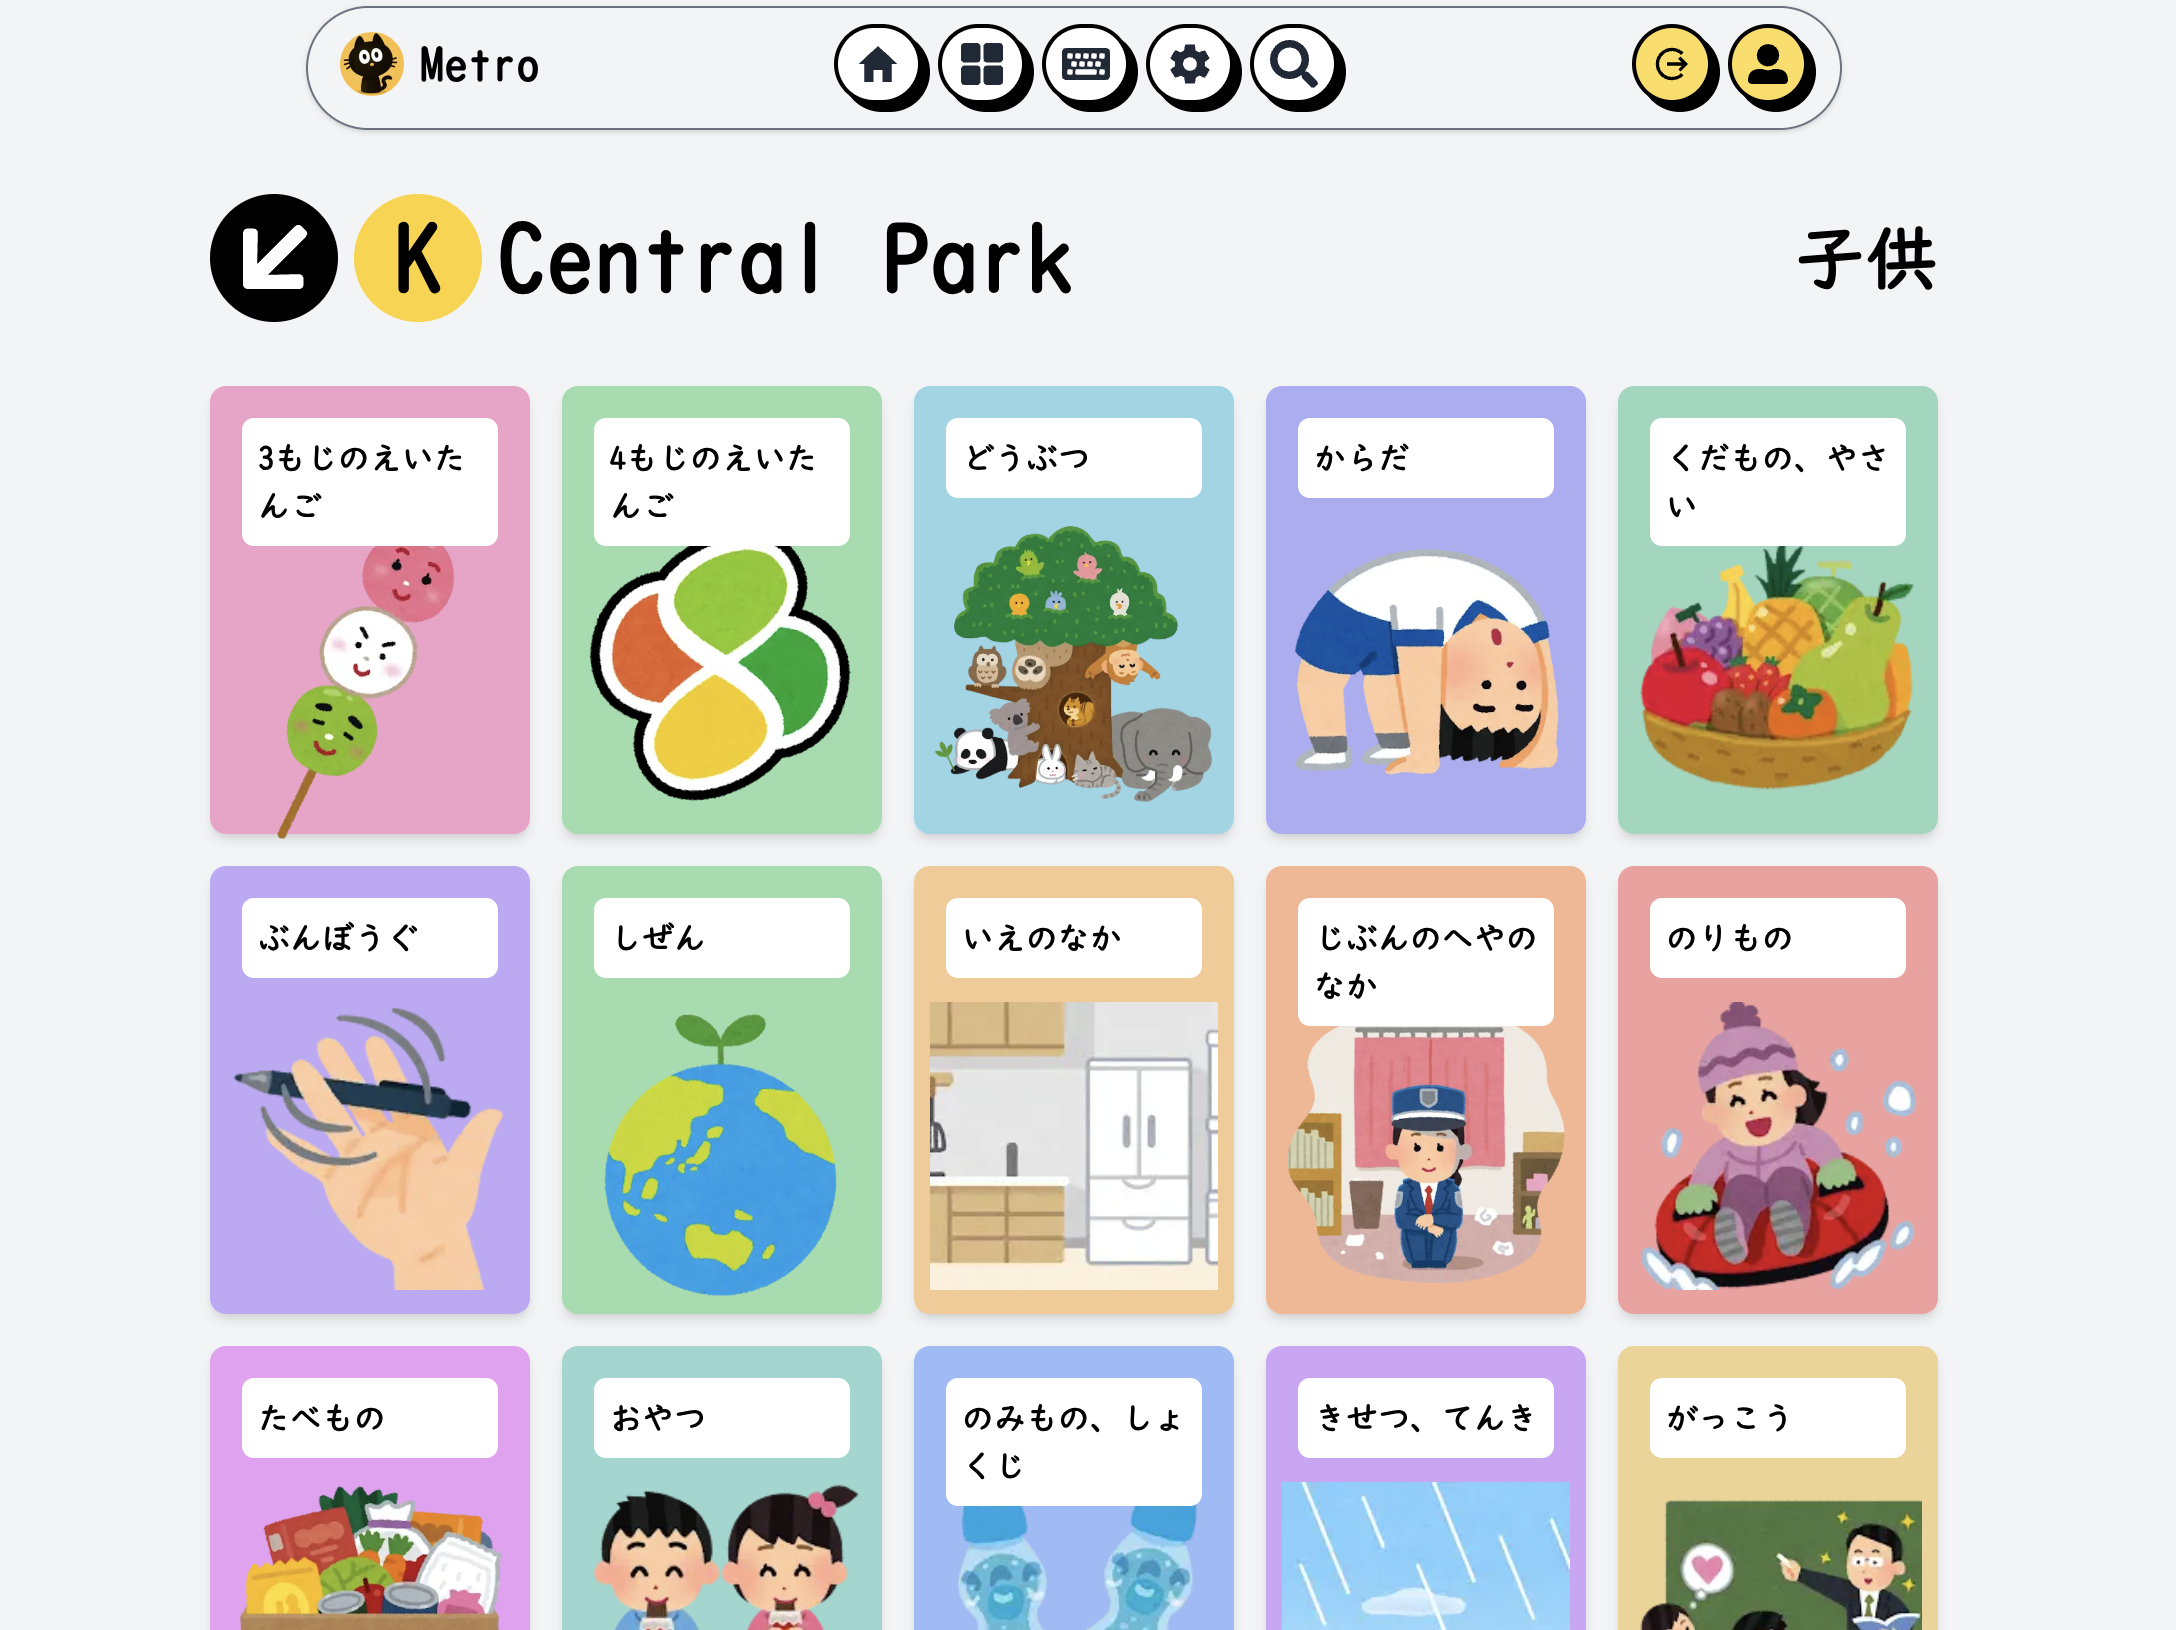
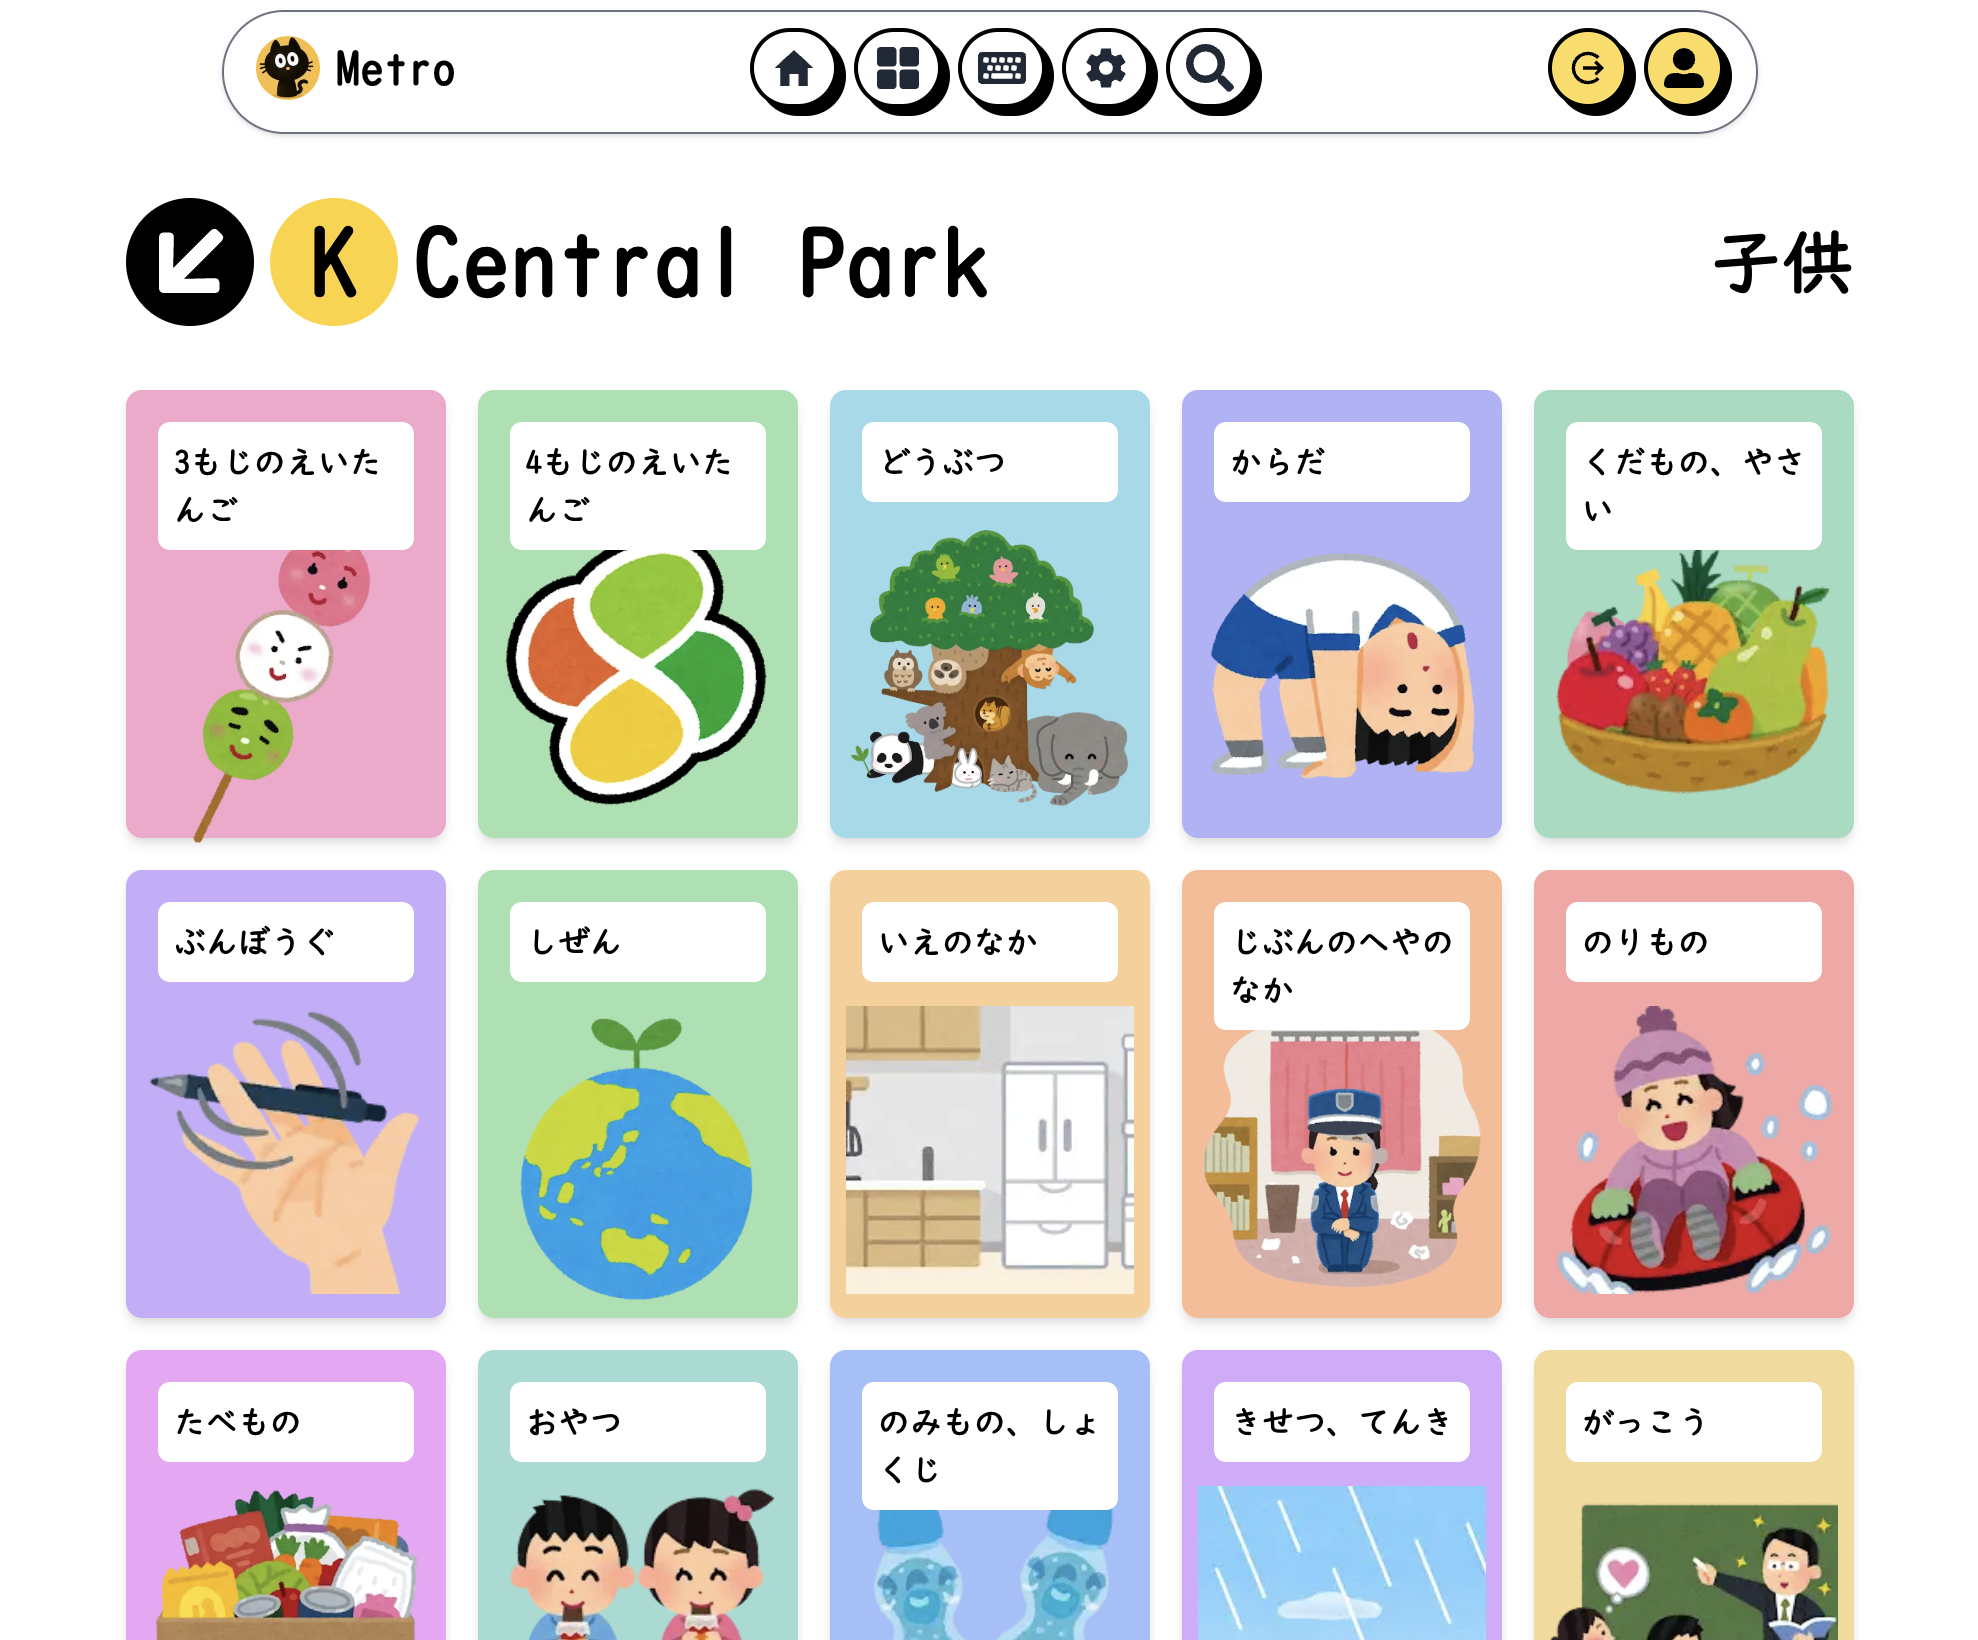
change image for metro

diff --git a/src/components/ThreeColumnsWithImages.tsx b/src/components/ThreeColumnsWithImages.tsx
@@ -16,7 +16,7 @@ import chezgImg from '@/images/work/chezg.jpg'
 import mecchaImg from '@/images/work/meccha.jpg'
 import meccha2Img from '@/images/work/meccha2.jpg'
 import metablizzImg from '@/images/work/metablizz.png'
-import metroImg from '@/images/work/metro.png'
+import metro1Img from '@/images/work/metro1.png'
 import metro2Img from '@/images/work/metro2.png'
 import oworldImg from '@/images/work/oworld.jpg'
 import teslaImg from '@/images/work/tesla.jpg'
@@ -135,7 +135,7 @@ const items = [
     header: (
       <div className="flex">
         <Image
-          src={metroImg}
+          src={metro1Img}
           alt="Metro"
           width={500}
           height={500}
